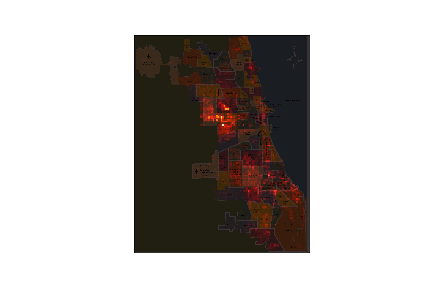
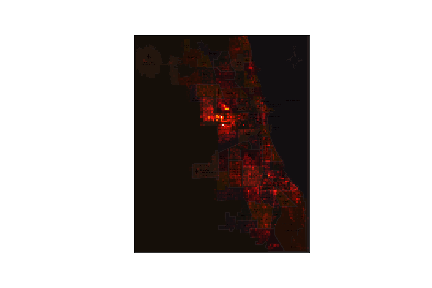
Updated

diff --git a/data_plot.py b/data_plot.py
@@ -54,7 +54,7 @@ plt.imshow(img, zorder=0, extent=[0, 109, 138, 0])
 
 #plot and save image
 #Alpha adjusts transparency
-plt.imshow(heatIm, zorder=1, cmap='hot', alpha=0.8)
+plt.imshow(heatIm, zorder=1, cmap='hot', alpha=0.9)
 plt.xticks([])
 plt.yticks([])
 plt.savefig('heatmap.png')
